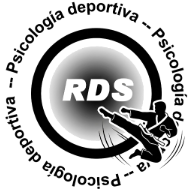
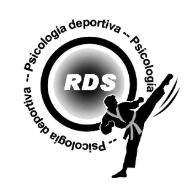
v61: segundo icono de la app, fondo transparente
Nuevo icono (karateca en silueta pateando, cinturon claro) sustituye
al anterior en icon-192/icon-512 (transparente de verdad) y
apple-touch-icon (fondo blanco opaco, igual que la vez anterior).

diff --git a/index.html b/index.html
@@ -430,7 +430,7 @@ if('serviceWorker' in navigator){
       </select>
     </div>
   </div>
-    <div class="app-ver">v60</div>
+    <div class="app-ver">v61</div>
     </div>
 
   </main>

diff --git a/sw.js b/sw.js
@@ -1,5 +1,5 @@
 /* RDS Plantilla - Service Worker */
-var CACHE = 'reactionkarate-v60';
+var CACHE = 'reactionkarate-v61';
 var ASSETS = [
   './',
   './index.html',
